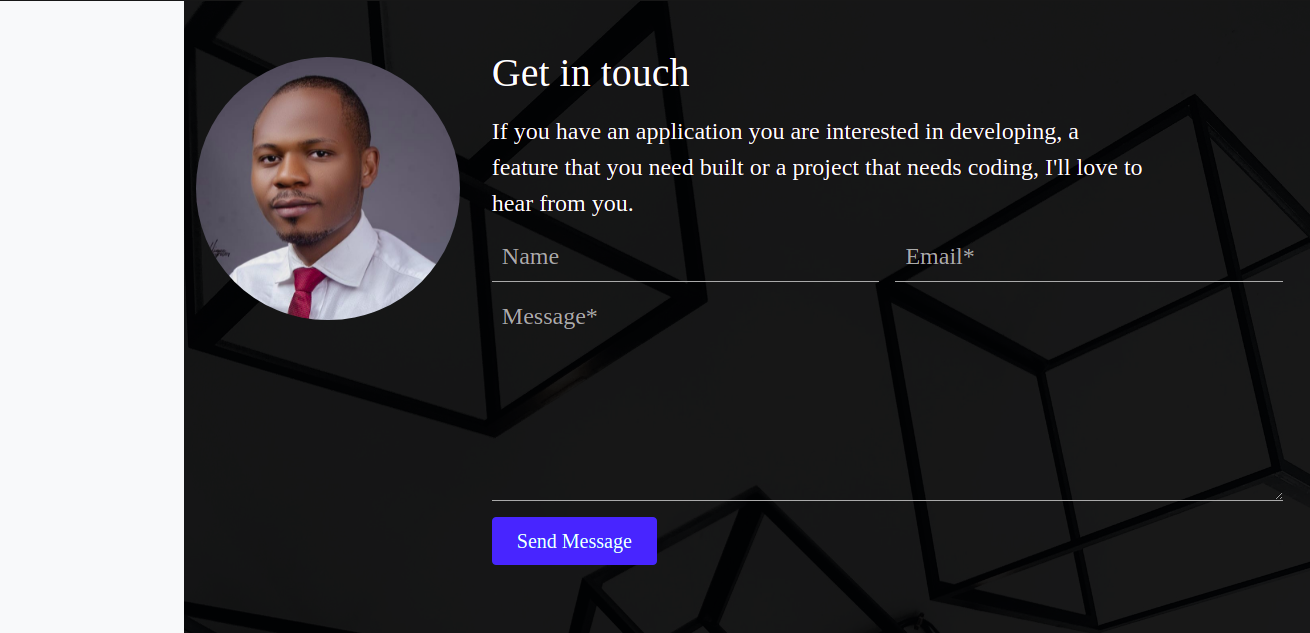
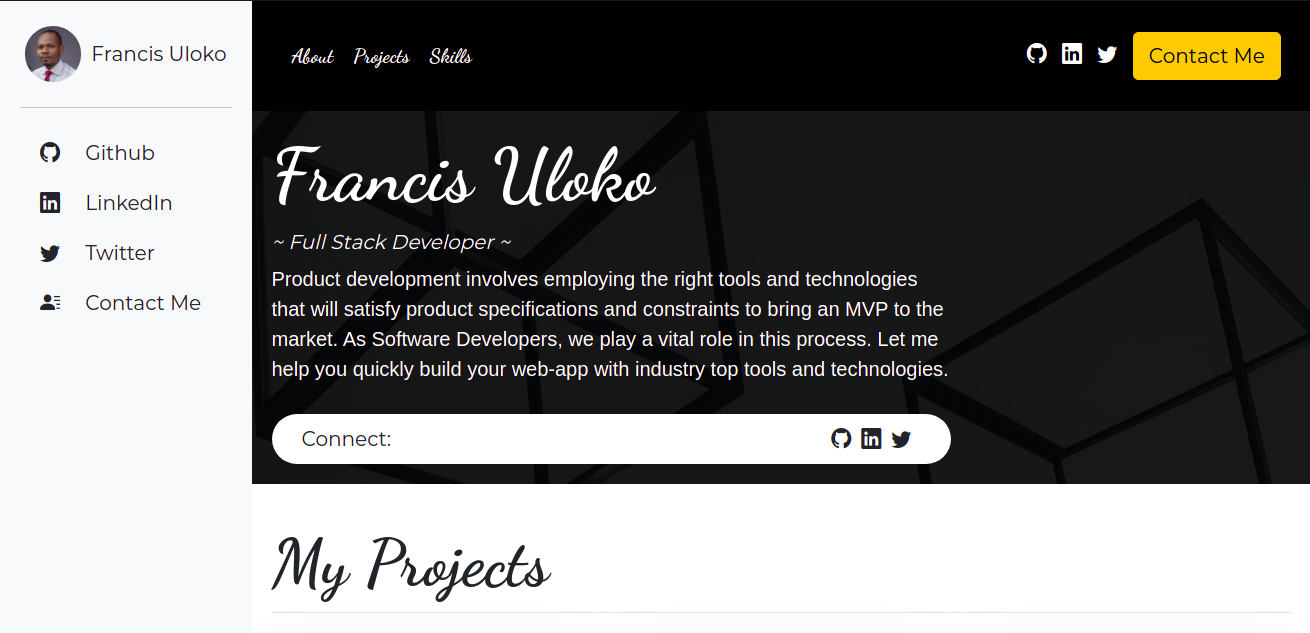
Fix header sizes

diff --git a/index.html b/index.html
@@ -49,7 +49,7 @@
             </li>
           </ul>
       </aside>
-      <section class="w-100">
+      <div class="w-100">
         <header class="p-4 bg-black text-white  z-10" id='header'>
           <div class="d-flex flex-wrap align-items-center justify-content-center justify-content-lg-start">
             <div class='d-none d-lg-block'>
@@ -76,9 +76,9 @@
         </header>
         <!-- HERO SECTION -->
         <section class="m-auto text-white bg-dark text-center text-lg-start banner" style="background-image: url('./img/herobg.jpg');">
-          <div class="p-3" id="overlay">
+          <div class="p-3 overlay">
             <div class="" id='text'>
-              <h1 class="title display-3">Francis Uloko</h1>
+              <h2 class="title display-3">Francis Uloko</h2>
               <h2 class="fs-6 fst-italic"> ~ Full Stack Developer ~</h2>
               <div class="container">
                 <div class="row">
@@ -106,22 +106,23 @@
 
         <!-- PROJECTS SECTION -->
         <section class="p-3 mt-3 pb-0" id="projects">        
-          <h2 class="pb-2 border-bottom title display-4">My Projects</h2>
+          <h2 class="pb-2 border-bottom title display-6">My Projects</h2>
           <div class="row row-cols-1 row-cols-lg-3 align-items-stretch g-4 py-3">
+
             <div class="col">
               <div class="card card-cover h-100 overflow-hidden text-white bg-dark rounded-5 shadow-lg" style="background-image: url('./img/twitter_PNG1.png'); background-size: contain; background-repeat: no-repeat;">
                 <div class="d-flex flex-column h-100 p-5 pb-3 text-white text-shadow-1">
                   <h2 class="pt-5 mt-5 mb-4 lh-1 fw-bold titl">Twitter Redesign</h2>
                   <ul class="d-flex justify-content-between align-items-center list-unstyled mt-auto">
-                    <div class="d-flex">
-                    <li class="me-auto">
-                      <img src="./img/svg/rails.svg" alt="Bootstrap" width="32" height="32" class="rounded-circle border border-white">
+                    <li class="d-flex">
+                      <div class="me-auto">
+                        <img src="./img/svg/rails.svg" alt="Bootstrap" width="32" height="32" class="rounded-circle border border-white">
+                      </div>
+                      <div class="d-flex align-items-center me-3">
+                        <svg class="bi me-0" width="1em" height="1em"><use xlink:href="#geo-fill"></use></svg>
+                        <small>Rails Capstone</small>
+                      </div>
                     </li>
-                    <li class="d-flex align-items-center me-3">
-                      <svg class="bi me-0" width="1em" height="1em"><use xlink:href="#geo-fill"></use></svg>
-                      <small>Rails Capstone</small>
-                    </li>
-                    </div>
                     <li class="d-flex align-items-center">
                       <!-- Button -->
                       <button type="button" class="btn text-white" data-bs-toggle="modal" data-bs-target="#exampleModal1">
@@ -129,11 +130,11 @@
                       </button>
                       
                       <!-- Modal -->
-                      <div class="modal fade text-dark" id="exampleModal1" tabindex="-1" aria-labelledby="exampleModalLabel" aria-hidden="true">
+                      <div class="modal fade text-dark" id="exampleModal1" tabindex="-1" aria-labelledby="exampleModalLabel1" aria-hidden="true">
                         <div class="modal-dialog">
                           <div class="modal-content">
                             <div class="modal-header">
-                              <h5 class="modal-title text-dark" id="exampleModalLabel">Twitter Redesign Capstone</h5>
+                              <h5 class="modal-title text-dark" id="exampleModalLabel1">Twitter Redesign Capstone</h5>
                               <button type="button" class="btn-close" data-bs-dismiss="modal" aria-label="Close"></button>
                             </div>
                             <div class="modal-body">
@@ -158,7 +159,6 @@
                                   <li>Deploy apps heroku</li>
                                   <li>Translate business requirements into software solutions</li>
                                 </ul>
-                              </p>
                             </div>
                             <div class="modal-footer">
                               <a href="https://github.com/francisuloko/twitter-redesign-capstone" class="btn btn-primary">Code</a>
@@ -178,15 +178,15 @@
                 <div class="d-flex flex-column h-100 p-5 pb-3 text-white text-shadow-1">
                   <h2 class="pt-5 mt-5 mb-4 lh-1 fw-bold">Telegram Bot</h2>
                   <ul class="d-flex justify-content-between align-items-center list-unstyled mt-auto">
-                    <div class="d-flex">
-                    <li class="me-0">
-                      <img src="./img/rubylogo.png" alt="Bootstrap" width="32" height="32" class="rounded-circle border border-white">
+                    <li class="d-flex">
+                      <div class="me-0">
+                        <img src="./img/rubylogo.png" alt="Bootstrap" width="32" height="32" class="rounded-circle border border-white">
+                      </div>
+                      <div class="d-flex align-items-center me-2">
+                        <svg class="bi me-0" width="1em" height="1em"><use xlink:href="#geo-fill"></use></svg>
+                        <small>Ruby Capstone</small>
+                      </div>
                     </li>
-                    <li class="d-flex align-items-center me-2">
-                      <svg class="bi me-0" width="1em" height="1em"><use xlink:href="#geo-fill"></use></svg>
-                      <small>Ruby Capstone</small>
-                    </li>
-                  </div>
                   <li class="d-flex align-items-center">
                     <!-- Button -->
                     <button type="button" class="btn text-white" data-bs-toggle="modal" data-bs-target="#exampleModal2">
@@ -194,11 +194,11 @@
                     </button>
                     
                     <!-- Modal -->
-                    <div class="modal fade text-dark" id="exampleModal2" tabindex="-1" aria-labelledby="exampleModalLabel" aria-hidden="true">
+                    <div class="modal fade text-dark" id="exampleModal2" tabindex="-1" aria-labelledby="exampleModal2" aria-hidden="true">
                       <div class="modal-dialog">
                         <div class="modal-content">
                           <div class="modal-header">
-                            <h5 class="modal-title text-dark" id="exampleModalLabel">Telegram Bot Paddy</h5>
+                            <h5 class="modal-title text-dark" id="“exampleModalLabel">Telegram Bot Paddy</h5>
                             <button type="button" class="btn-close" data-bs-dismiss="modal" aria-label="Close"></button>
                           </div>
                           <div class="modal-body">
@@ -227,15 +227,15 @@
                 <div class="d-flex flex-column h-100 p-5 pb-3 text-shadow-1">
                   <h2 class="pt-5 mt-5 mb-4  lh-1 fw-bold">TicTacToe</h2>
                   <ul class="d-flex justify-content-between align-items-center list-unstyled mt-auto">
-                    <div class="d-flex">
-                      <li class="">
+                    <li class="d-flex">
+                      <div class="me-0">
                         <img src="./img/rubylogo.png" alt="Bootstrap" width="32" height="32" class="rounded-circle border border-white">
-                      </li>
-                      <li class="d-flex align-items-center me-3">
+                      </div>
+                      <div class="d-flex align-items-center me-3">
                         <svg class="bi me-0" width="1em" height="1em"><use xlink:href="#geo-fill"></use></svg>
                         <small>Ruby</small>
-                      </li>
-                    </div>              
+                      </div>
+                    </li>              
                     <li class="d-flex align-items-center">
                       <!-- Button -->
                       <button type="button" class="btn text-white" data-bs-toggle="modal" data-bs-target="#exampleModal3">
@@ -243,11 +243,11 @@
                       </button>
                       
                       <!-- Modal -->
-                      <div class="modal fade text-dark" id="exampleModal3" tabindex="-1" aria-labelledby="exampleModalLabel" aria-hidden="true">
+                      <div class="modal fade text-dark" id="exampleModal3" tabindex="-1" aria-labelledby="exampleModalLabel3" aria-hidden="true">
                         <div class="modal-dialog">
                           <div class="modal-content">
                             <div class="modal-header">
-                              <h5 class="modal-title text-dark" id="exampleModalLabel">Tic Tac Toe</h5>
+                              <h5 class="modal-title text-dark" id="exampleModalLabel3">Tic Tac Toe</h5>
                               <button type="button" class="btn-close" data-bs-dismiss="modal" aria-label="Close"></button>
                             </div>
                             <div class="modal-body">
@@ -276,15 +276,15 @@
                 <div class="d-flex flex-column h-100 p-5 pb-3 text-shadow-1">
                   <h2 class="pt-5 mt-5 mb-4  lh-1 fw-bold">Hotels Directory</h2>
                   <ul class="d-flex justify-content-between align-items-center list-unstyled mt-auto">
-                    <div class="d-flex">
-                    <li class="me-0">
-                      <img src="./img/html5.png" alt="Bootstrap" width="32" height="32" class="rounded-circle border border-white">
+                    <li class="d-flex">
+                      <div class="me-0">
+                        <img src="./img/html5.png" alt="Bootstrap" width="32" height="32" class="rounded-circle border border-white">
+                      </div>
+                      <div class="d-flex align-items-center me-2">
+                        <svg class="bi me-2" width="1em" height="1em"><use xlink:href="#geo-fill"></use></svg>
+                        <small>HTML/CSS Capstone</small>
+                      </div>
                     </li>
-                    <li class="d-flex align-items-center me-2">
-                      <svg class="bi me-2" width="1em" height="1em"><use xlink:href="#geo-fill"></use></svg>
-                      <small>HTML/CSS Capstone</small>
-                    </li>
-                    </div>
                     <li class="d-flex align-items-center">
                       <!-- Button -->
                       <button type="button" class="btn text-white" data-bs-toggle="modal" data-bs-target="#exampleModal4">
@@ -292,11 +292,11 @@
                       </button>
                       
                       <!-- Modal -->
-                      <div class="modal fade text-dark" id="exampleModal4" tabindex="-1" aria-labelledby="exampleModalLabel" aria-hidden="true">
+                      <div class="modal fade text-dark" id="exampleModal4" tabindex="-1" aria-labelledby="exampleModalLabel4" aria-hidden="true">
                         <div class="modal-dialog">
                           <div class="modal-content">
                             <div class="modal-header">
-                              <h5 class="modal-title text-dark" id="exampleModalLabel">Hotels Directory</h5>
+                              <h5 class="modal-title text-dark" id="exampleModalLabel4">Hotels Directory</h5>
                               <button type="button" class="btn-close" data-bs-dismiss="modal" aria-label="Close"></button>
                             </div>
                             <div class="modal-body">
@@ -323,15 +323,15 @@
                 <div class="d-flex flex-column h-100 p-5 pb-3 text-shadow-1">
                   <h2 class="pt-5 mt-5 mb-4  lh-1 fw-bold">Newsweek</h2>
                   <ul class="d-flex justify-content-between align-items-center list-unstyled mt-auto">
-                    <div class="d-flex">
-                    <li class="me-0">
-                      <img src="./img/bootstrap.png" alt="Bootstrap" width="32" height="32" class="rounded-circle border border-white">
+                    <li class="d-flex">
+                      <div class="me-0">
+                        <img src="./img/bootstrap.png" alt="Bootstrap" width="32" height="32" class="rounded-circle border border-white">
+                      </div>
+                      <div class="d-flex align-items-center me-2">
+                        <svg class="bi me-0" width="1em" height="1em"><use xlink:href="#geo-fill"></use></svg>
+                        <small>Bootstrap</small>
+                      </div>
                     </li>
-                    <li class="d-flex align-items-center me-2">
-                      <svg class="bi me-0" width="1em" height="1em"><use xlink:href="#geo-fill"></use></svg>
-                      <small>Bootstrap</small>
-                    </li>
-                    </div>
                     <li class="d-flex align-items-center">
                       <!-- Button -->
                       <button type="button" class="btn text-white" data-bs-toggle="modal" data-bs-target="#exampleModal5">
@@ -339,11 +339,11 @@
                       </button>
                       
                       <!-- Modal -->
-                      <div class="modal fade text-dark" id="exampleModal5" tabindex="-1" aria-labelledby="exampleModalLabel" aria-hidden="true">
+                      <div class="modal fade text-dark" id="exampleModal5" tabindex="-1" aria-labelledby="exampleModalLabel5" aria-hidden="true">
                         <div class="modal-dialog">
                           <div class="modal-content">
                             <div class="modal-header">
-                              <h5 class="modal-title text-dark" id="exampleModalLabel">Newsweek</h5>
+                              <h5 class="modal-title text-dark" id="exampleModalLabel5">Newsweek</h5>
                               <button type="button" class="btn-close" data-bs-dismiss="modal" aria-label="Close"></button>
                             </div>
                             <div class="modal-body">
@@ -413,7 +413,7 @@
 
         <!-- ABOUT ME -->
         <section class="p-4 pt-3 mt-3" id='about'>
-            <h2 class="pb-2 border-bottom title display-4">About Me</h2>
+            <h2 class="pb-2 border-bottom title display-6">About Me</h2>
             <p class="col-md-10 fs-5 mt-4">
               I have been a web developer since 2019. In February 2021, I joined the Microverse Software Development bootcamp which requires over 1000+ hours to master the top tools and technologies used in the industry while building real world projects. In my time, I learnt remote work, pair-programming, mentoring and a bunch of other soft skills.
             </p>
@@ -427,14 +427,14 @@
 
         <!-- CONTACT ME FORM -->
         <section class="bg-black text-white banner" id="contact"  style="background-image: url('./img/herobg.jpg');">
-          <div class="p-3 py-5" id="overlay">
+          <div class="p-3 py-5 overlay">
             <div class="">
                 <div class="row mb-3">
                     <div class="md-block col-md-3 align-self-start m-0 p-2">
                         <img class="w-100 d-none d-md-block rounded-circle"  src="./img/profile-photo.jpeg" alt="profile photo">
                     </div>
                     <div class="col-sm-12 col-md-9 justify-content-between align-self-start m-0 px-4">
-                        <h2 class="my-0 title display-4">Get in touch</h2>
+                        <h2 class="my-0 title display-6">Get in touch</h2>
                         <p class="my-3 col-sm-12 col-md-10 fs-4">
                           If you have an application you are interested in developing, a feature that you need built or a project that needs coding, I'll love to hear from you.
                         </p>
@@ -459,7 +459,7 @@
             </div>
           </div>
         </section>
-      </section>
+      </div>
   </main>
 
   <footer class="p-2 bg-black text-white d-flex justify-content-between align-items-center">

diff --git a/css/styles.css b/css/styles.css
@@ -12,7 +12,7 @@ body {
     font-family: 'Dancing Script', cursive;
 }
 
-#overlay {
+.overlay {
   background-color: rgba(0,0,0,0.9);
   padding: 20px;
 }
